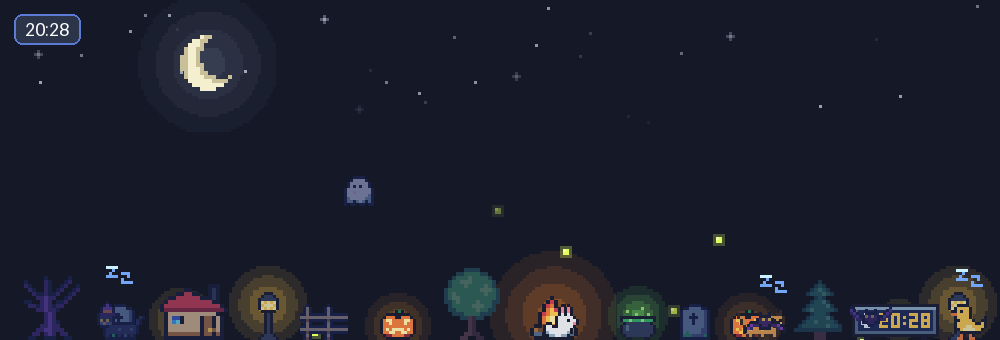
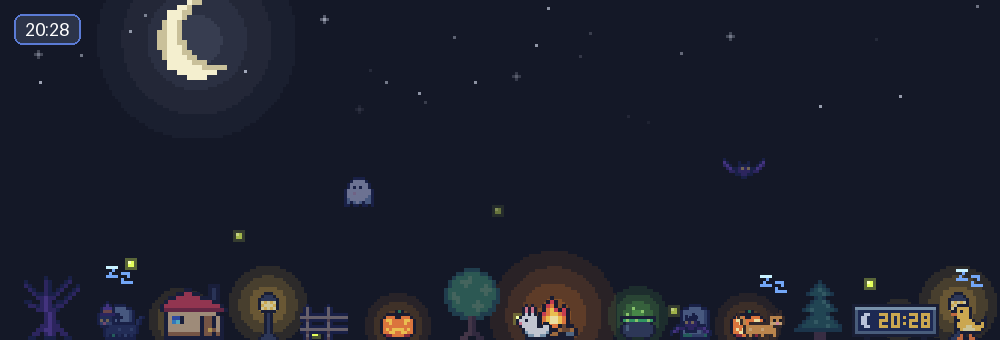
Sun and moon: small and low in the corners, big and half off the top at the peak
They grow in whole-pixel steps (3x to 6x) as they climb, and at midday /
midnight the centre sits on the top edge so only half shows - more screen
space. Light rays still come from them.

diff --git a/weather_window.py b/weather_window.py
@@ -106,8 +106,7 @@ class WeatherWindow(QWidget):
         self._was_busy = False
         self._glow_cache = {}
         self._cloud_cache = {}
-        self._moon = None
-        self._sun = None
+        self._bodies = {}               # (sun/moon, pixel size) -> picture
         self._sky_ticks = 0
         rng = random.Random(7)                  # the same sky every night
         self._stars = [(rng.random(), rng.random() * 0.36, rng.random(), rng.random() < 0.2)
@@ -244,16 +243,15 @@ class WeatherWindow(QWidget):
 
     def body_pos(self, w):
         """Centre of the sun or moon on its arc across the top of the screen."""
-        body, progress = w.sky
-        pm = self._body_pixmap(body)
-        x, y = daycycle.arc(progress, self.width(), self.height(), pm.width())
-        return x + pm.width() / 2, y + pm.height() / 2
+        x, y, _ = daycycle.arc(w.sky[1], self.width(), self.height())
+        return x, y
 
-    def _body_pixmap(self, body):
-        if self._moon is None:
-            self._moon = QPixmap.fromImage(_moon_image())
-            self._sun = QPixmap.fromImage(_sun_image())
-        return self._sun if body == "sun" else self._moon
+    def _body_pixmap(self, body, scale):
+        key = (body, scale)
+        if key not in self._bodies:
+            img = _sun_image(scale=scale) if body == "sun" else _moon_image(n=16, scale=scale)
+            self._bodies[key] = QPixmap.fromImage(img)
+        return self._bodies[key]
 
     def _body(self, p, w):
         """The sun by day, the moon by night, following the clock."""
@@ -261,8 +259,8 @@ class WeatherWindow(QWidget):
         strength = ((1.0 - w.night) if body == "sun" else w.night) * w.sky_strength()
         if strength <= 0.02:
             return
-        pm = self._body_pixmap(body)
-        cx, cy = self.body_pos(w)
+        cx, cy, scale = daycycle.arc(w.sky[1], self.width(), self.height())
+        pm = self._body_pixmap(body, scale)
         radius = int(pm.width() * 1.25)
         glow = self._glow_pixmap(radius, "#ffe9a8" if body == "sun" else "#cfdcff")
         p.setOpacity(0.35 * strength)

diff --git a/daycycle.py b/daycycle.py
@@ -84,15 +84,21 @@ def sky(when=None, mode="clock"):
     return "moon", since / night_len
 
 
-def arc(progress, width, height, size):
-    """Top-left corner for the sun/moon picture: low in the corners, highest
-    at midday / midnight, always within the top fifth of the screen."""
+SMALL, BIG = 3, 6        # pixel size of the sun/moon in the corners and at its peak
+
+
+def arc(progress, width, height):
+    """Where the sun or moon is: (centre x, centre y, pixel size).
+
+    Low and small in the corners; at midday / midnight it is at its biggest
+    but climbs half off the top of the screen, so it takes little room."""
     import math
-    margin = size
-    x = margin + progress * (width - 2 * margin) - size / 2
-    top, low = height * 0.03, height * 0.18
-    y = low - (low - top) * math.sin(math.pi * min(1.0, max(0.0, progress)))
-    return x, y
+    up = math.sin(math.pi * min(1.0, max(0.0, progress)))     # 0 in the corners, 1 at the peak
+    scale = round(SMALL + (BIG - SMALL) * up)                 # whole pixels stay crisp
+    half = 8 * scale                                          # half the picture's width
+    x = half + progress * (width - 2 * half)
+    y = (height * 0.12 + half) * (1 - up)                     # at the peak the centre sits on the top edge
+    return x, y, scale
 
 
 def clock_text(when=None):

diff --git a/tests/test_night.py b/tests/test_night.py
@@ -130,13 +130,16 @@ class SkyTests(unittest.TestCase):
     def test_arc_stays_in_the_top_of_the_screen(self):
         prev_x = -1
         for i in range(11):
-            x, y = daycycle.arc(i / 10, 1920, 1040, 64)
+            x, y, scale = daycycle.arc(i / 10, 1920, 1040)
             self.assertGreater(x, prev_x)
             prev_x = x
-            self.assertTrue(0 <= y <= 1040 * 0.2)
-            self.assertTrue(0 <= x <= 1920 - 64)
-        noon = daycycle.arc(0.5, 1920, 1040, 64)[1]
-        self.assertLess(noon, daycycle.arc(0.0, 1920, 1040, 64)[1])     # highest at midday
+            self.assertTrue(0 <= y <= 1040 * 0.25)
+            self.assertTrue(0 <= x - 8 * scale and x + 8 * scale <= 1920)   # never off the sides
+        corner = daycycle.arc(0.0, 1920, 1040)
+        noon = daycycle.arc(0.5, 1920, 1040)
+        self.assertEqual(noon[1], 0)                 # at its peak, half off the top
+        self.assertGreater(corner[1], 8 * corner[2])   # in the corner, fully on screen
+        self.assertGreater(noon[2], corner[2])       # biggest in the middle
 
     def test_sky_setting_is_saved(self):
         self.assertTrue(store.clean({})["show_sky"])

diff --git a/README.md b/README.md
@@ -60,7 +60,8 @@ evening):
 
 - **The sun and moon move.** A pixel sun rises in the left corner of your
   screen in the morning, arcs across the top and sets in the right corner in
-  the evening; then the moon does the same overnight, with a few twinkling
+  the evening. It is small and low in the corners and biggest at its peak, where
+  it only peeks in half-way from the top edge, so it never takes much room; then the moon does the same overnight, with a few twinkling
   stars. With **Light rays** on, the beams shine from the sun by day and the
   moon by night.
 - **The park changes colour.** At sunset the pets and plants take on a warm
